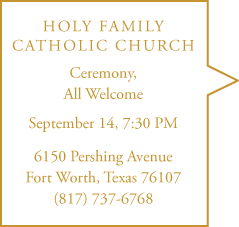
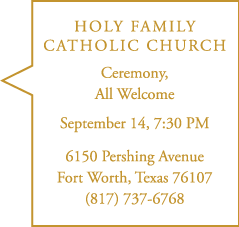
New images added and styled

Changed region(s): [[0.0, 0.0, 1.0, 1.0], [0.2636, 0.2775, 0.7322, 0.4626]]

diff --git a/static/index.html b/static/index.html
@@ -244,6 +244,7 @@
 </div>
 <div id="announcement" class="section">
   <img src="img/header_announcement.png" class="header">
+  <img src="img/announcement.png" class="annoucement" style="margin-bottom:10px;">
 </div>
 <div id="map" class="section">
   <img src="img/rehearsal.png" id="joet-desc" class="desc"/>

diff --git a/static/style.css b/static/style.css
@@ -167,7 +167,7 @@ img.gallery.hidden {
 
 #church-desc {
 	position:absolute;
-	left: 220px;
-	top:580px;
+	left: 193px;
+	top:514px;
 }
 
